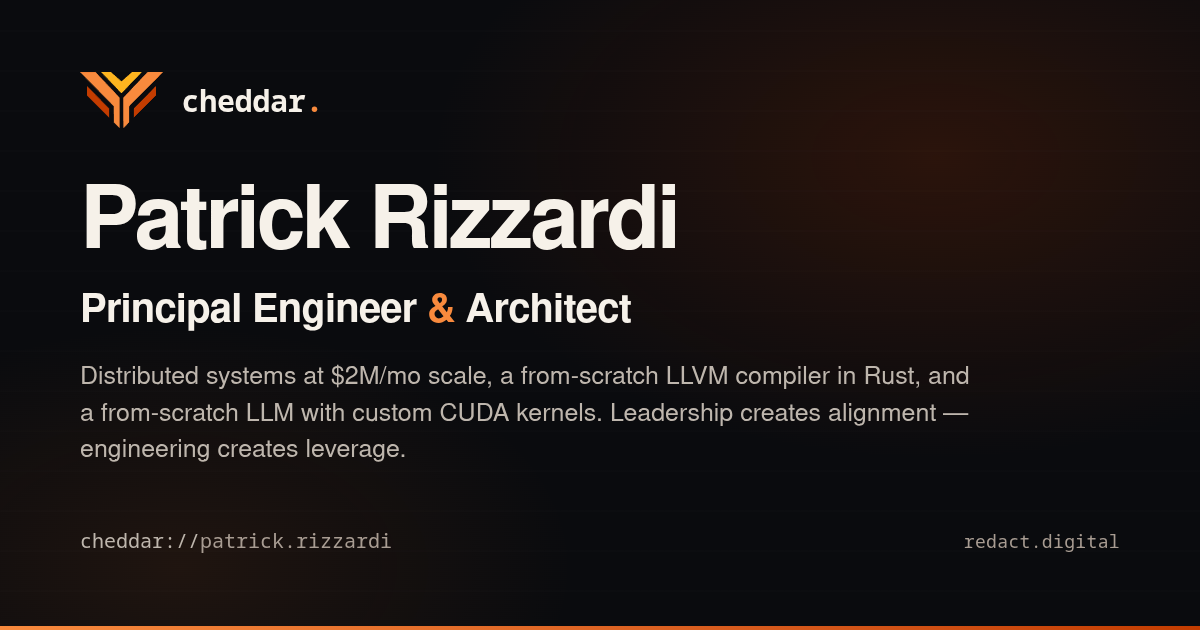
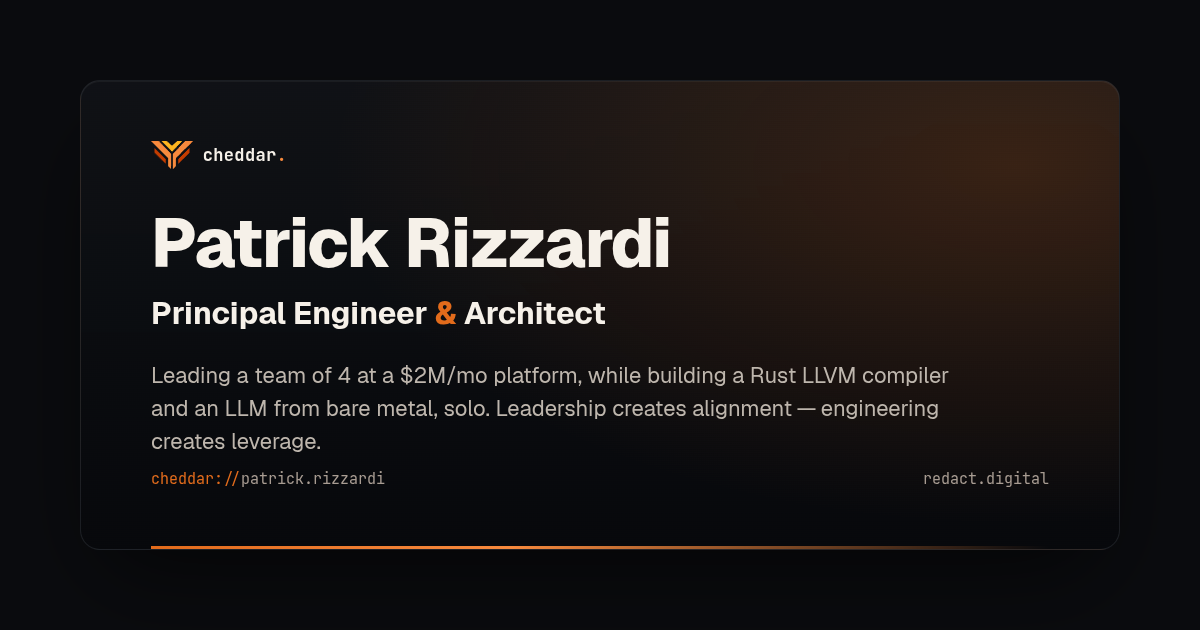
fix(honesty): end-of-plan cumulative-review fixes + plan done (cheddar-site-overhaul)
Resolves the Step-4.c fix loop from the end-of-plan cumulative review
(5 reviewers + 9 deviation-judges, all PASS after fixes):

- principles.ts: LLM 'built...the whole pipeline' -> 'I'm building...full training
  pipeline' (in-progress; matches projects.ts 'Base training is in progress')
- nav-height: 3 disagreeing literals (56/56/64) -> single --nav-h CSS token
  (54 mobile / 61 desktop, provenance comment) consumed by App.vue + MobileMenu;
  scroll.ts fallback cites it. Browser-verified both breakpoints clear the bar.
- Tessa archNotes: dropped unbenchmarked 'measurably outperformed burn' ->
  architectural truth (control/memory/fusion/abstraction-overhead) per tessa-ai commits
- index.html + hero + OG card: dropped 'from-scratch LLVM compiler' (Yinz is LLVM-native)
  and the '$2M/mo distributed systems' weld; index.html meta aligned with HomeView;
  hero 'bare metal' now attaches only to the Tessa LLM; OG re-rendered (1200x630, honest copy)

metrics BLOCK (judge P1#2) NOT confirmed (flat-rate fallacy: cumulative-gross vs
current-monthly-rate are different quantities, both true) - no code change.

Plan status -> done; scratch files moved to plans/done/scratch/.
Build GREEN: type-check + lint + vite-ssg build (4 pages).

diff --git a/src/data/projects.ts b/src/data/projects.ts
@@ -9,7 +9,7 @@ export const projects: ReadonlyArray<Project> = [
       'I wanted to understand transformers at the kernel level, not just call an API. So I built an LLM from scratch in Rust — custom CUDA attention kernels, a BPE tokenizer trained on 34GB of text across a 3.85B-token corpus, and three architectures under active exploration: a LLaMA-style transformer, RWKV-7, and a hybrid. Base training is in progress; inference service is planned.',
     tech: ['Rust', 'CUDA', 'cudarc', 'Transformer', 'RWKV', 'BPE', 'Linux'],
     archNotes:
-      'Hand-written CUDA attention kernels (via cudarc) replaced the burn framework after they measurably outperformed its built-in ops — the tradeoff was months of low-level debugging for full control over memory layout and kernel fusion. Running three architecture experiments in parallel to understand where transformers end and recurrent models begin.',
+      'Hand-written CUDA attention kernels (via cudarc) replaced the burn framework for full control over memory layout and kernel fusion, and to drop the framework abstraction overhead — the tradeoff was months of low-level debugging. Running three architecture experiments in parallel to understand where transformers end and recurrent models begin.',
     snippets: [
       {
         label: 'cudarc Kernel Dispatch — Fused RoPE + Head Reshape',

diff --git a/src/assets/main.css b/src/assets/main.css
@@ -69,10 +69,23 @@
   --btn-radius: 6px;
   --card-radius: 14px;
 
+  /* Height of the fixed site nav bar. Single source for the static layout clearances
+     (App.vue main padding, MobileMenu dropdown top); the live scroll offset in
+     src/utils/scroll.ts measures the bar element directly. Bar = inner py-3 (24px) +
+     tallest content row + 1px border ≈ 54px mobile, 61px desktop (taller nav-button row). */
+  --nav-h: 54px;
+
   --font-display: 'Geist', -apple-system, system-ui, sans-serif;
   --font-accent: 'Newsreader', Georgia, serif;
   --font-body: 'Geist', -apple-system, system-ui, sans-serif;
   --font-mono: 'JetBrains Mono', ui-monospace, monospace;
+}
+
+/* Desktop nav bar is taller (larger nav-button row) — keep --nav-h synced with the live bar. */
+@media (min-width: 768px) {
+  :root {
+    --nav-h: 61px;
+  }
 }
 
 * {

diff --git a/index.html b/index.html
@@ -5,7 +5,7 @@
     <meta name="viewport" content="width=device-width, initial-scale=1.0" />
     <meta
       name="description"
-      content="Patrick Rizzardi — Principal Engineer & Architect. Distributed systems at $2M/mo scale, a from-scratch LLVM compiler in Rust, and a from-scratch LLM with custom CUDA kernels — fault-tolerant microservices, 11 production integrations, OpenAI in production."
+      content="Principal Engineer & Architect specializing in distributed systems, TypeScript/Node, and MySQL at $2M/mo scale. Building a Rust LLVM compiler, training LLMs with CUDA kernels, and leading a team of 4. Fault-tolerant microservices, 11 production integrations, OpenAI in production."
     />
     <link rel="icon" type="image/svg+xml" href="/cheddar-logo.svg" />
     <link rel="preconnect" href="https://fonts.googleapis.com" />

diff --git a/src/components/hero/HeroSection.vue b/src/components/hero/HeroSection.vue
@@ -183,8 +183,9 @@
 
       <!-- Subhead -->
       <p style="margin-top: 28px; max-width: 680px; font-size: 19px; line-height: 1.55; color: var(--text-2)">
-        Principal Engineer &amp; Architect. Leading a team of 4 at a $2M/mo platform, while building compilers and LLMs
-        from bare metal solo. Leadership creates alignment&thinsp;—&thinsp;engineering creates leverage.
+        Principal Engineer &amp; Architect. Leading a team of 4 at a $2M/mo platform, while building a Rust LLVM
+        compiler and an LLM from bare metal, solo. Leadership creates alignment&thinsp;—&thinsp;engineering creates
+        leverage.
       </p>
 
       <!-- CTA row -->

diff --git a/src/utils/scroll.ts b/src/utils/scroll.ts
@@ -1,8 +1,9 @@
 // Smooth-scroll helpers for in-page section navigation beneath the fixed site nav bar.
 
 // Fallback nav-bar height (px), used only when the bar element can't be measured
-// (e.g. not yet mounted). Matches the mobile bar (~54px); desktop measures larger live.
-const NAV_FALLBACK_HEIGHT = 56;
+// (e.g. not yet mounted). Mirrors the mobile --nav-h token in src/assets/main.css;
+// navBarHeight() below is the real source — it measures the live bar, desktop included.
+const NAV_FALLBACK_HEIGHT = 54;
 // Breathing gap (px) left between a scrolled-to heading and the bottom of the fixed bar.
 const NAV_SCROLL_GAP = 12;
 

diff --git a/src/App.vue b/src/App.vue
@@ -6,8 +6,8 @@
 <template>
   <div class="min-h-screen">
     <AppNav />
-    <!-- pt clears the fixed full-width nav bar (~61px desktop / ~54px mobile); 64px clears both with a hairline gap. Anchored scroll uses the live measured nav height (src/utils/scroll.ts). -->
-    <main class="pt-[64px]">
+    <!-- pt clears the fixed full-width nav bar via the --nav-h token (src/assets/main.css), which tracks the bar height per breakpoint. Anchored scroll uses the live measured nav height (src/utils/scroll.ts). -->
+    <main class="pt-[var(--nav-h)]">
       <RouterView />
     </main>
     <AppFooter />

diff --git a/src/components/layout/MobileMenu.vue b/src/components/layout/MobileMenu.vue
@@ -36,7 +36,7 @@
         style="background: oklch(0 0 0 / 0.6)"
       />
       <DialogContent
-        class="fixed top-[56px] left-1/2 z-50 flex min-w-[220px] -translate-x-1/2 flex-col rounded-2xl border px-4 py-5 md:hidden"
+        class="fixed top-[var(--nav-h)] left-1/2 z-50 flex min-w-[220px] -translate-x-1/2 flex-col rounded-2xl border px-4 py-5 md:hidden"
         style="
           background: var(--card);
           backdrop-filter: blur(14px) saturate(140%);

diff --git a/src/data/principles.ts b/src/data/principles.ts
@@ -22,7 +22,7 @@ export const principles = [
   {
     n: '05',
     title: 'Read the kernel.',
-    body: 'I built an LLM from bare metal — custom CUDA attention kernels, BPE tokenizer, the whole pipeline. APIs are fine. Understanding what they wrap is better.',
+    body: "I'm building an LLM from scratch — custom CUDA attention kernels, a BPE tokenizer, the full training pipeline. APIs are fine. Understanding what they wrap is better.",
   },
   {
     n: '06',

diff --git a/.claude/plans/active/cheddar-site-overhaul.md b/.claude/plans/active/cheddar-site-overhaul.md
@@ -2,7 +2,7 @@
 slug: cheddar-site-overhaul
 type: execution
 owner: Patrick
-status: active
+status: done
 files:
   - src/data/projects.ts
   - src/components/**
@@ -327,7 +327,7 @@ Each phase ends with an **Exit Sequence** (persist plan state → fan out review
 - [x] design-compliance-reviewer: PASS (registry absent; 1 non-blocking aspirational note re: `<style scoped>` for reka `[data-state]` anim) — 2026-06-03
 - [x] deviation-judge #1 (reka dialog close): PASS (round 2) — 2026-06-03
 - [x] deviation-judge #2 (index.html/OG honesty): PASS (round 2) — 2026-06-03
-- [ ] Committed: <commit SHA>
+- [x] Committed: c1e5b6c
 
 **Findings Log**:
 - 2026-06-03 Patrick decisions: ADD reka-ui for the real dialog (Qd); coordinator renders the OG image.
@@ -351,16 +351,43 @@ Each phase ends with an **Exit Sequence** (persist plan state → fan out review
 - **Flag graveyards**: no feature flags introduced (static site, single deploy) — nothing to leave behind.
 
 ## Quality Checklist (verify at completion)
-- [ ] Inputs validated — **N/A** (static site, no user input)
-- [ ] Auth/authz — **N/A** (no server/endpoints)
-- [ ] Error handling — **N/A** (no runtime error surfaces beyond build)
-- [ ] No SQL injection / XSS / path traversal / secret exposure — XSS: no `v-html` on untrusted content (confirm none added); rest N/A
-- [ ] Performance: bundle stays lean (one optional dep, tree-shaken); OG image optimized
-- [ ] Tests — site has no unit tests; verification is browser + axe + type-check + lint (stated per phase)
-- [ ] Existing build still passes (`vite-ssg build`)
-- [ ] Types complete (no `any`, no non-null assertions, union+as const not enum, `T | null` not `?:`)
-- [ ] Follows existing conventions (`vue-standards.md`, projects.ts shape, `@theme` token pattern)
-- [ ] Every phase received all-reviewer + all-judge PASS before committing
-- [ ] Final cumulative reviewer sweep passed
-- [ ] Plan-file acceptance-criteria checkboxes accurate across all phases
-- [ ] **Honesty**: final grep clean of all banned claim strings; Patrick signed off on Phase 1 copy
+- [x] Inputs validated — **N/A** (static site, no user input)
+- [x] Auth/authz — **N/A** (no server/endpoints)
+- [x] Error handling — **N/A** (no runtime error surfaces beyond build)
+- [x] No SQL injection / XSS / path traversal / secret exposure — no `v-html` added (confirmed); rest N/A
+- [x] Performance: bundle stays lean (reka-ui only added dep, tree-shaken); OG image optimized (195KB)
+- [x] Tests — site has no unit tests; verification is browser + axe + type-check + lint (per phase)
+- [x] Existing build still passes (`vite-ssg build` → 4 pages rendered, built in 5.03s, 2026-06-03)
+- [x] Types complete (no `any`, no non-null assertions, union+as const not enum, `T | null` not `?:`) — rules-compliance PASS
+- [x] Follows existing conventions (`vue-standards.md`, projects.ts shape, `@theme` token pattern)
+- [x] Every phase received all-reviewer + all-judge PASS before committing
+- [x] Final cumulative reviewer sweep passed (5 reviewers + 9 judges; see Final Review Findings Log)
+- [x] Plan-file acceptance-criteria checkboxes accurate across all phases (16/16 MET — acceptance-verifier PASS)
+- [x] **Honesty**: final grep clean of all banned claim strings; Patrick signed off on Phase 1 copy
+
+---
+
+## Final Review Findings Log (end-of-plan cumulative review — 2026-06-03)
+
+Cumulative sweep: 5 reviewers + 9 deviation-judges, all `model: opus`, BASE `96e37aec` (plan_base), diff `git diff 96e37aec`.
+
+**PASS (10):** rules-compliance, acceptance-verifier (16/16 ACs MET), plan-adherence, design-compliance; judges P1#1 (repoUrl), P1#4 (SystemsSection statusMap), P2#1 (AppButton API merge order), P2#2 (ContactSection skip), P3#1 (nav offset survives the Phase-4 portal).
+
+**BLOCK → fixed in Step 4.c fix loop (all re-gated PASS):**
+1. **code-reviewer #1** — `principles.ts:25` LLM "built … the whole pipeline" = completion overstatement (Phase 4 reconciled `index.html` but this third surface slipped between Phase 1 and Phase 4). FIX → "I'm building an LLM from scratch … the full training pipeline" (gerund/in-progress, matches `projects.ts:9`).
+2. **code-reviewer #2** — nav-height carried as three disagreeing literals (`NAV_FALLBACK 56` / `App.vue pt-64` / `MobileMenu top-56`) bypassing the live-measurement source (no-duct-tape #4+#7). FIX → single `--nav-h` CSS token (`:root` 54px / `@media ≥768px` 61px, provenance comment) consumed by `App.vue pt-[var(--nav-h)]` + `MobileMenu top-[var(--nav-h)]`; `scroll.ts NAV_FALLBACK_HEIGHT=54` cites it (live `navBarHeight()` remains runtime source). Coordinator browser-verified (Playwright): desktop `--nav-h`=61 clears 60.5px bar; mobile `--nav-h`=54 = bar, dropdown flush at top 54.
+3. **judge P1#3 (Tessa)** — archNotes "measurably outperformed [burn's] built-in ops" = unbenchmarked A/B claim (tessa-ai removal commits `eb51065`/`80eca7c` cite control/transparency/binary-size; `07fe218` ships kernel fusion; no burn-vs-cudarc benchmark exists). FIX → "replaced the burn framework for full control over memory layout and kernel fusion, and to drop the framework abstraction overhead — the tradeoff was months of low-level debugging." Re-gate confirmed: replacement traces to the commits, no smuggled magnitude.
+4. **judge P4#2 (index.html/OG)** — (a) "from-scratch LLVM compiler" overstates Yinz (LLVM-native via inkwell); (b) "Distributed systems at $2M/mo scale" welds VPM revenue to Trading architecture. FIX → `index.html` meta aligned with `HomeView.vue` copy ("…distributed systems, TypeScript/Node, and MySQL at $2M/mo scale. Building a Rust LLVM compiler, training LLMs with CUDA kernels…"). Re-gate note: the re-judge found HomeView's copy at `plan_base` was itself the OLD "stay profitable" string — the `$2M/mo` copy was authored fresh during this plan in BOTH files, not copied from a pre-vetted source; judge re-traced every claim (incl. the 4 new ones: fault-tolerant microservices, 11 integrations, OpenAI-in-prod, CUDA kernels) → all trace to projects.ts/metrics.ts. PASS.
+
+**Coordinator-extended honesty fixes (same defect class as P4#2, caught via browser verification of the live hero + OG card — surfaces no judge's text diff covered):**
+- `HeroSection.vue` subhead: "building compilers and LLMs from bare metal solo" → "building a Rust LLVM compiler and an LLM from bare metal, solo" — "bare metal" now attaches only to the Tessa LLM (Yinz is LLVM).
+- **OG card** (`public/assets/og-default.png`): the binary was NOT in any judge's readable diff; coordinator browser-read it and found it carried the SAME "from-scratch LLVM compiler" + "$2M/mo distributed" claims as index.html. Re-rendered (1200×630, serves 200) with honest copy matching the corrected hero: "Leading a team of 4 at a $2M/mo platform, while building a Rust LLVM compiler and an LLM from bare metal, solo…"
+
+**judge P1#2 (metrics) — BLOCK NOT confirmed (Rule-11 verification):** judge computed `$65.8M / 54mo = $1.22M/mo ≠ $2M/mo` → "site contradicts itself." That assumes constant revenue across 2021–present (flat-rate fallacy). `$2M/mo` is the current run-rate; `$65.8M` is cumulative-since-2021 — different quantities, both true (state.md source-of-truth), and `projects.ts:155` frames them correctly together ("$2M+ in monthly cashflow ($65.8M+ gross since 2021)"). **No code change.** Doc-gap closed: the `metrics.ts:2` `$2M→$65.8M` swap was Patrick-directed (his "swap one out for the 65m" decision); only the `500M→11` swap had been recorded in the Phase 1 scratch — recording the second swap here.
+
+**Flagged for Patrick (understating/framing — NOT false claims; his call, not auto-changed):**
+- `src/data/leadership.ts` 2026 timeline: "Engineering Lead" / "Independent CTO-track engagements" — contradicts the resolved Principal-Engineer (non-CTO) positioning. Career-framing, his decision.
+- Tessa corpus "3.85B-token corpus" (`projects.ts:9`) vs tessa-ai's current "12.4B tokens (was 3.85B)". 3.85B is the English-Base figure (still live across tessa-ai planning docs) — *understated*, not overstated, so honest-safe. Patrick may want to bump to 12.4B.
+- Metrics framing: `$65.8M+ gross since 2021` now occupies a hero metric slot (Patrick-directed). Not a defect; flagged for visibility.
+
+**Build verification (final):** `bun run type-check` GREEN, `bun run lint` GREEN (5 pre-existing oxlint warnings, 0 errors), `bun run build` (vite-ssg) → 4 pages rendered, built in 5.03s.
